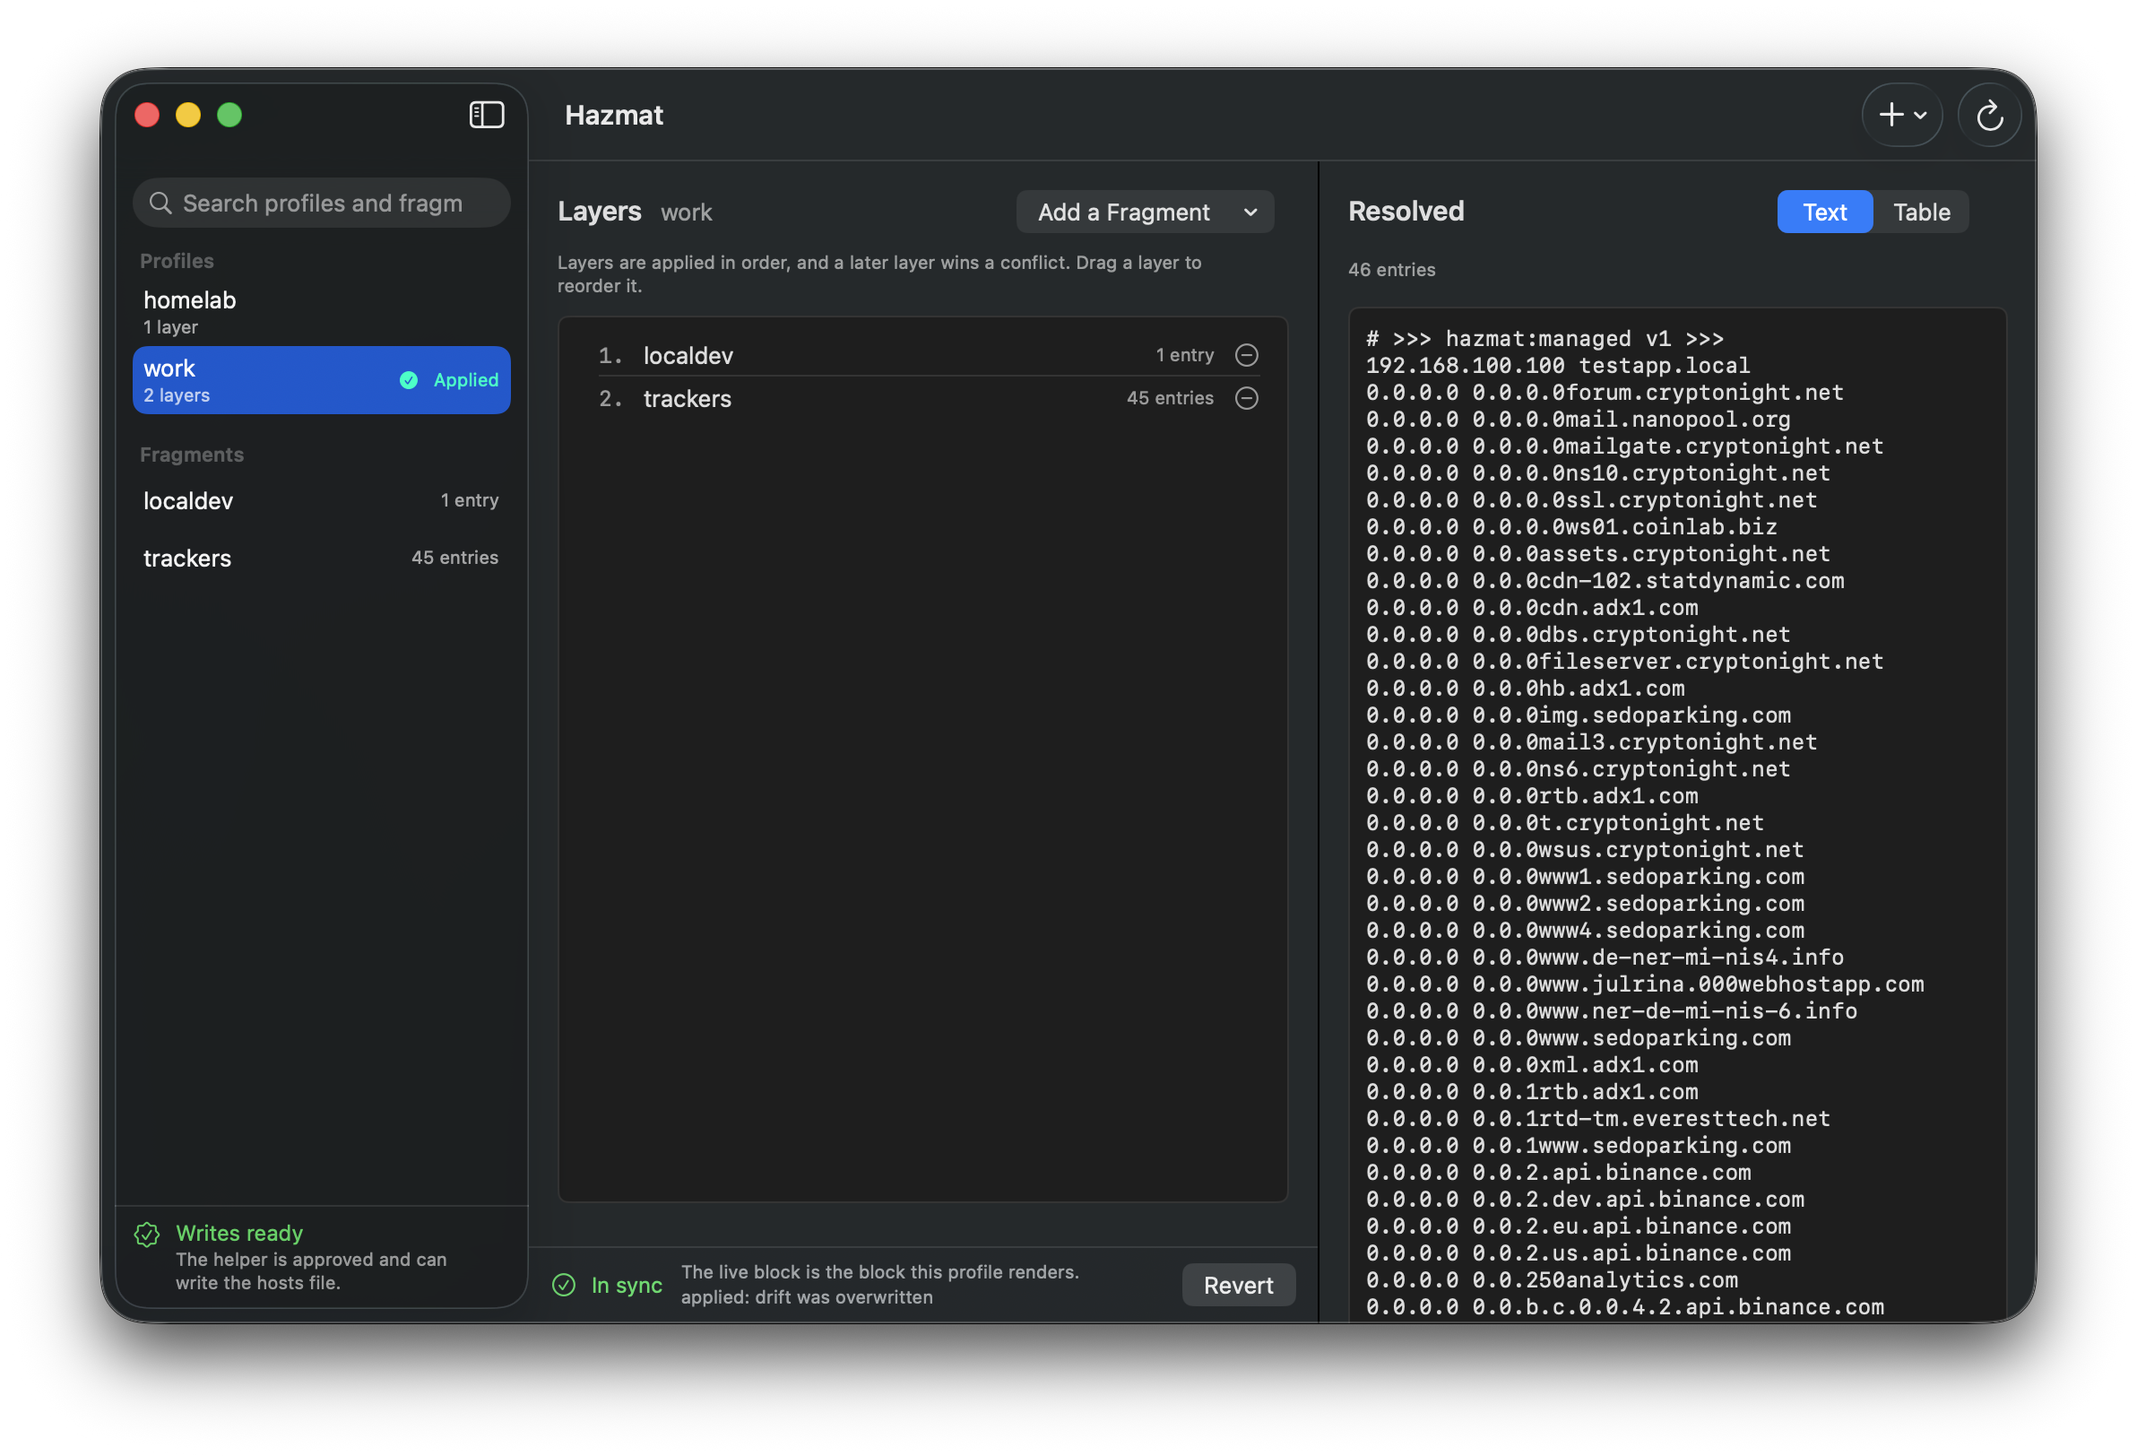
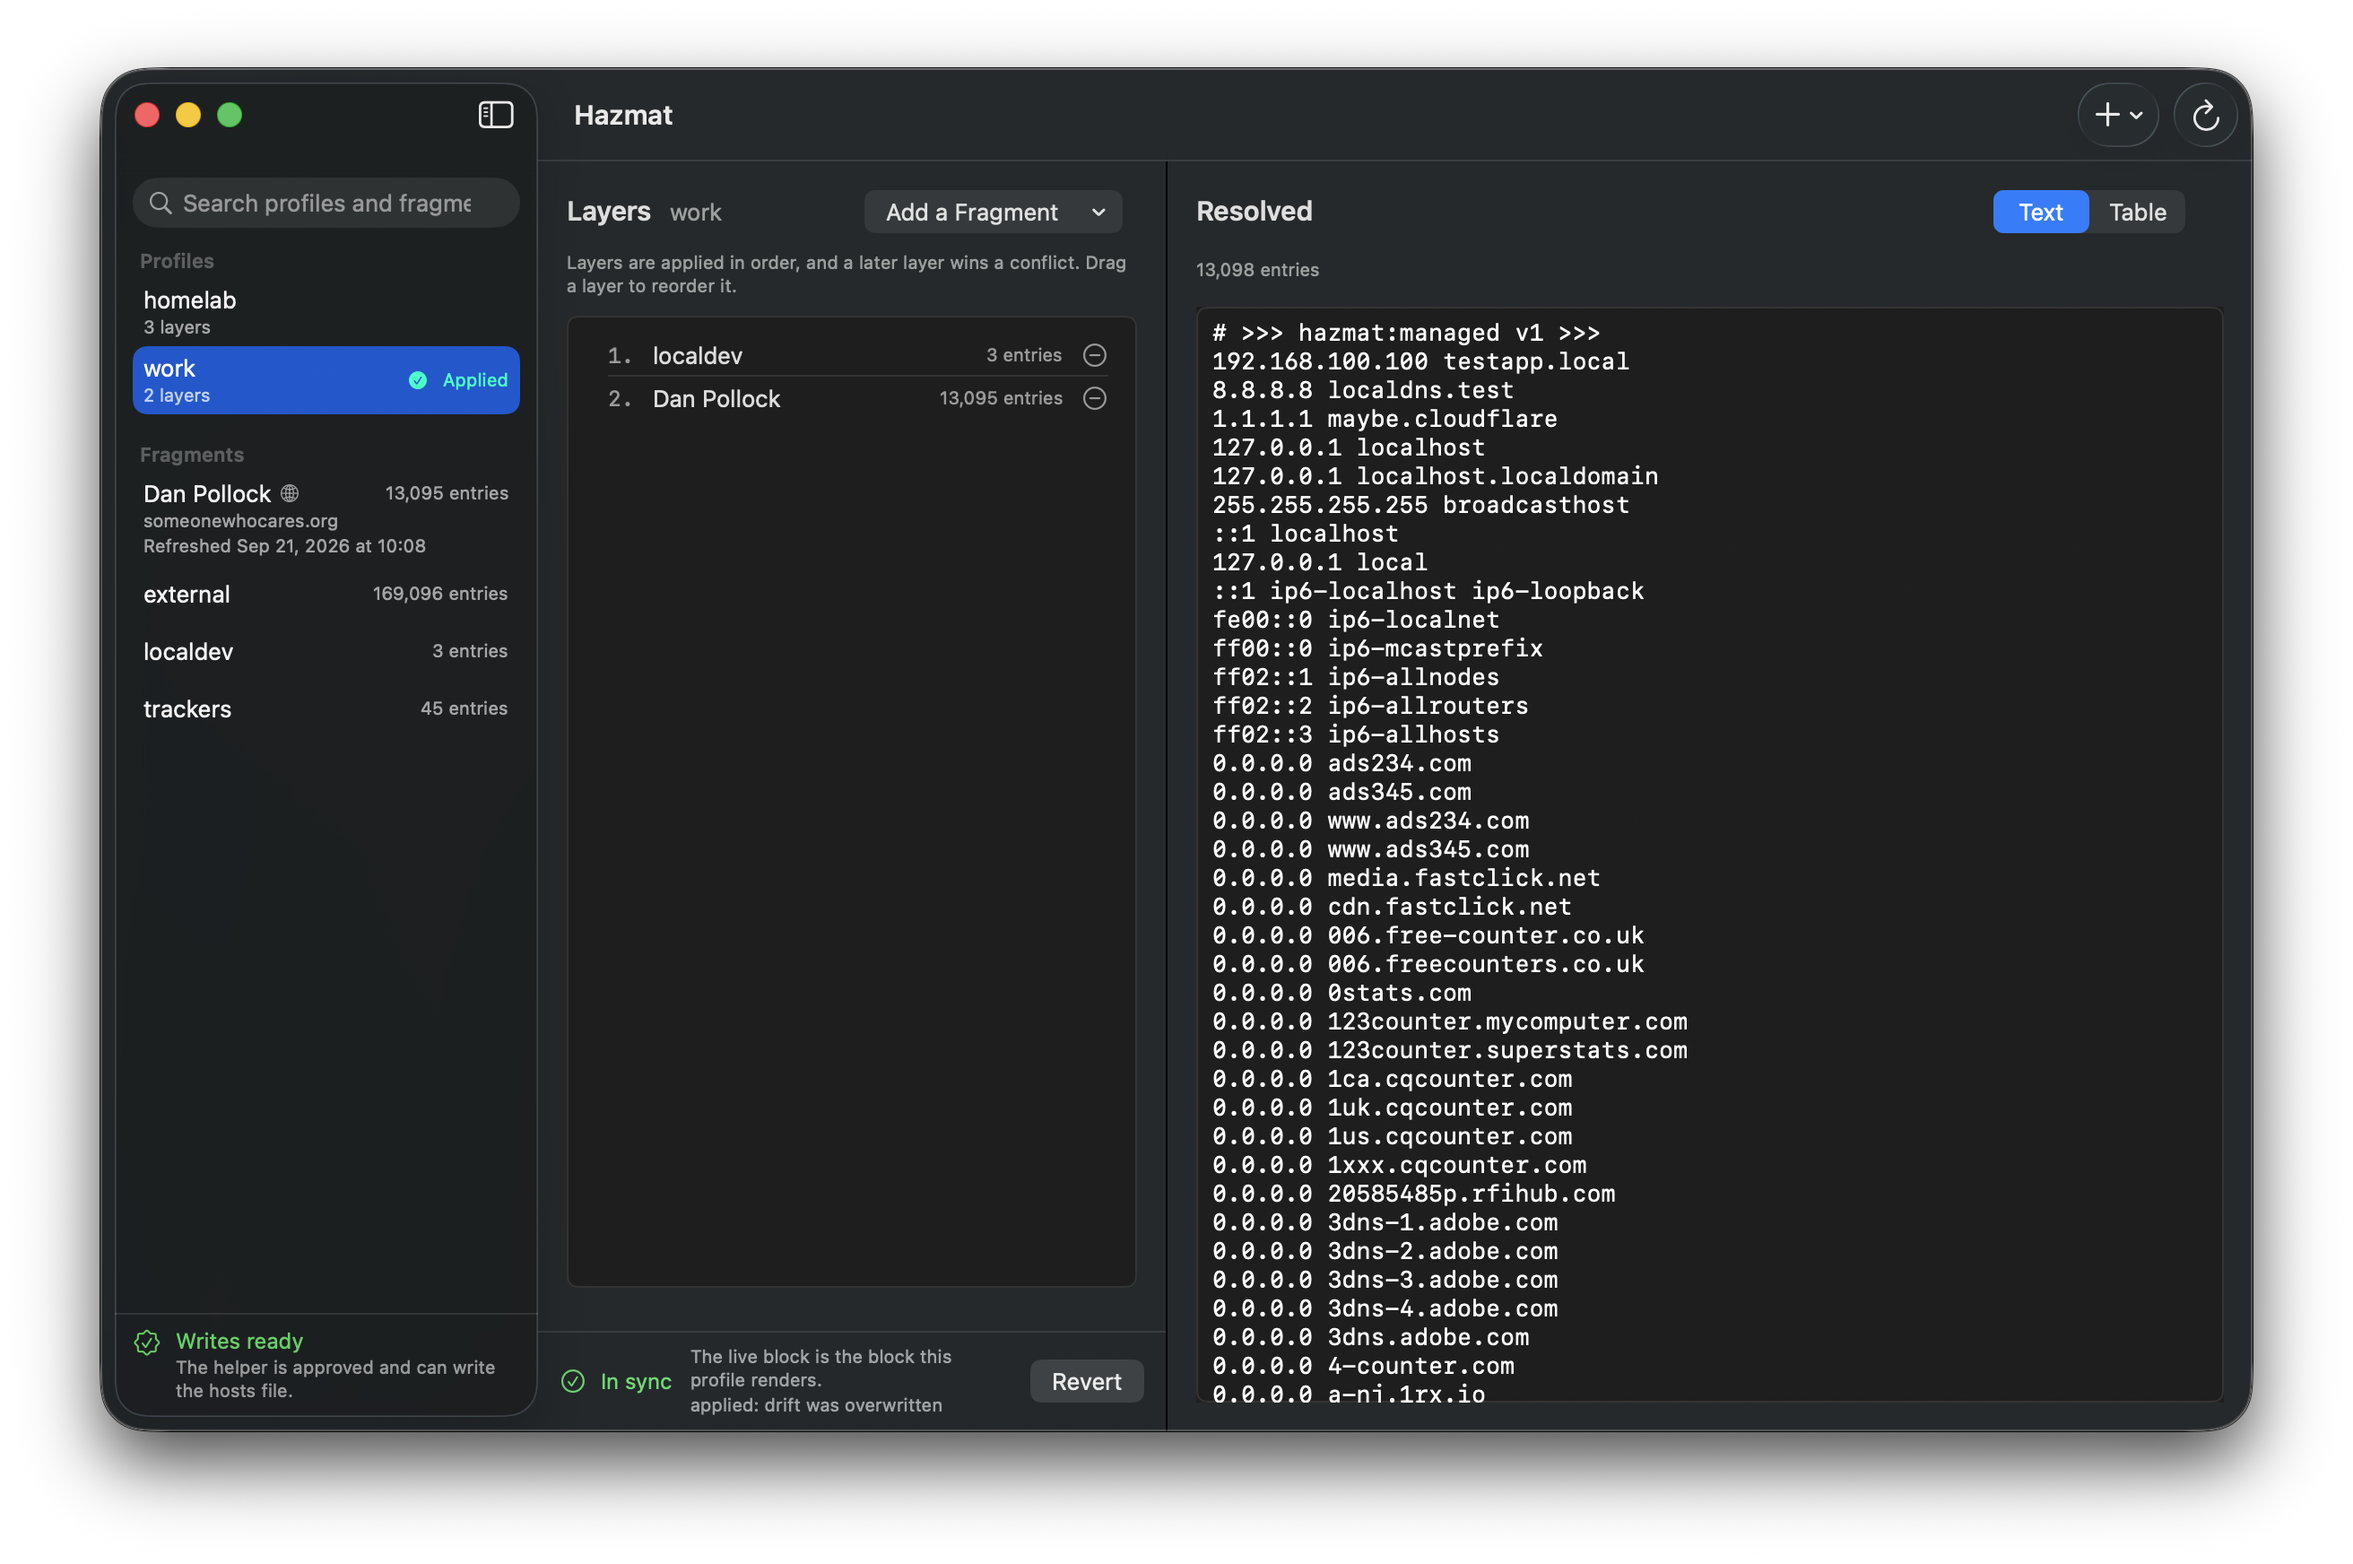
Capture the window with a fetched fragment in it
The sidebar now carries a fragment fetched from someonewhocares.org, so the image and the alt text that describes it move together.

diff --git a/README.md b/README.md
@@ -18,7 +18,7 @@ menu bar. It is inspired from
 Apple Silicon.
 
 <p align="center">
-  <img src="Assets/screenshot.png" alt="The Hazmat window: profiles and fragments on the left, the work profile's two layers in the middle, and the 46 entries they resolve to on the right" width="85%">
+  <img src="Assets/screenshot.png" alt="The Hazmat window: profiles and fragments on the left, one fragment fetched from someonewhocares.org, the work profile's two layers in the middle, and the 13,098 entries they resolve to on the right" width="85%">
 </p>
 
 **Disclaimer**: This codebase was built entirely by pairing with an AI agent — no code was handwritten by a human.
